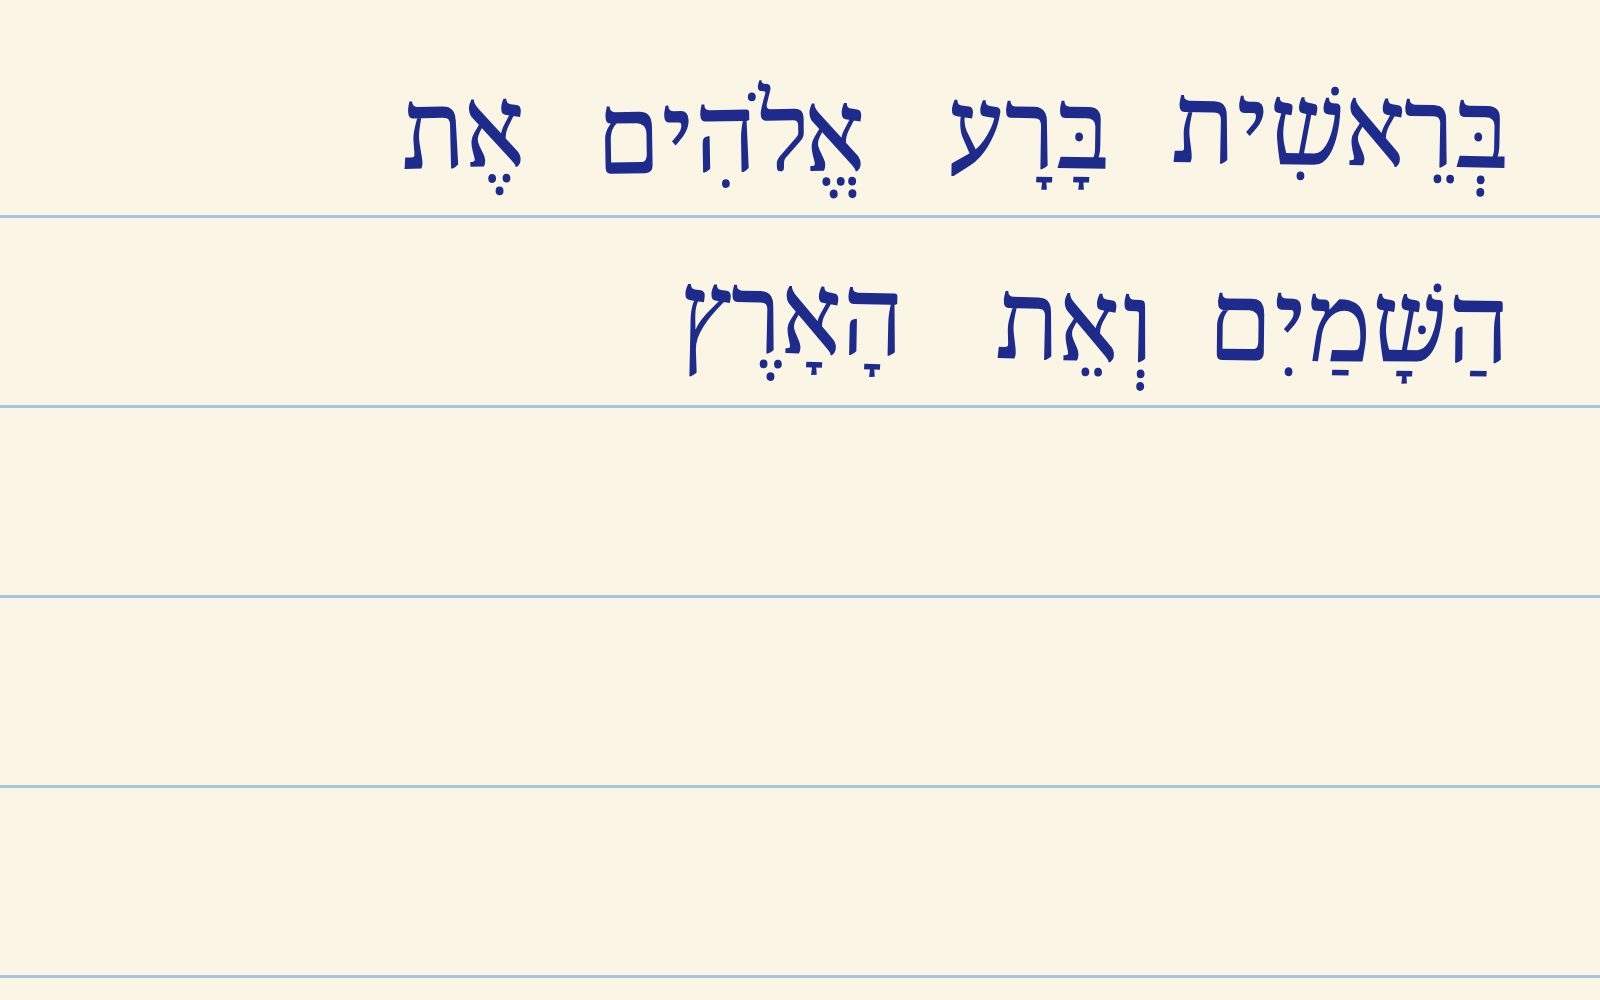
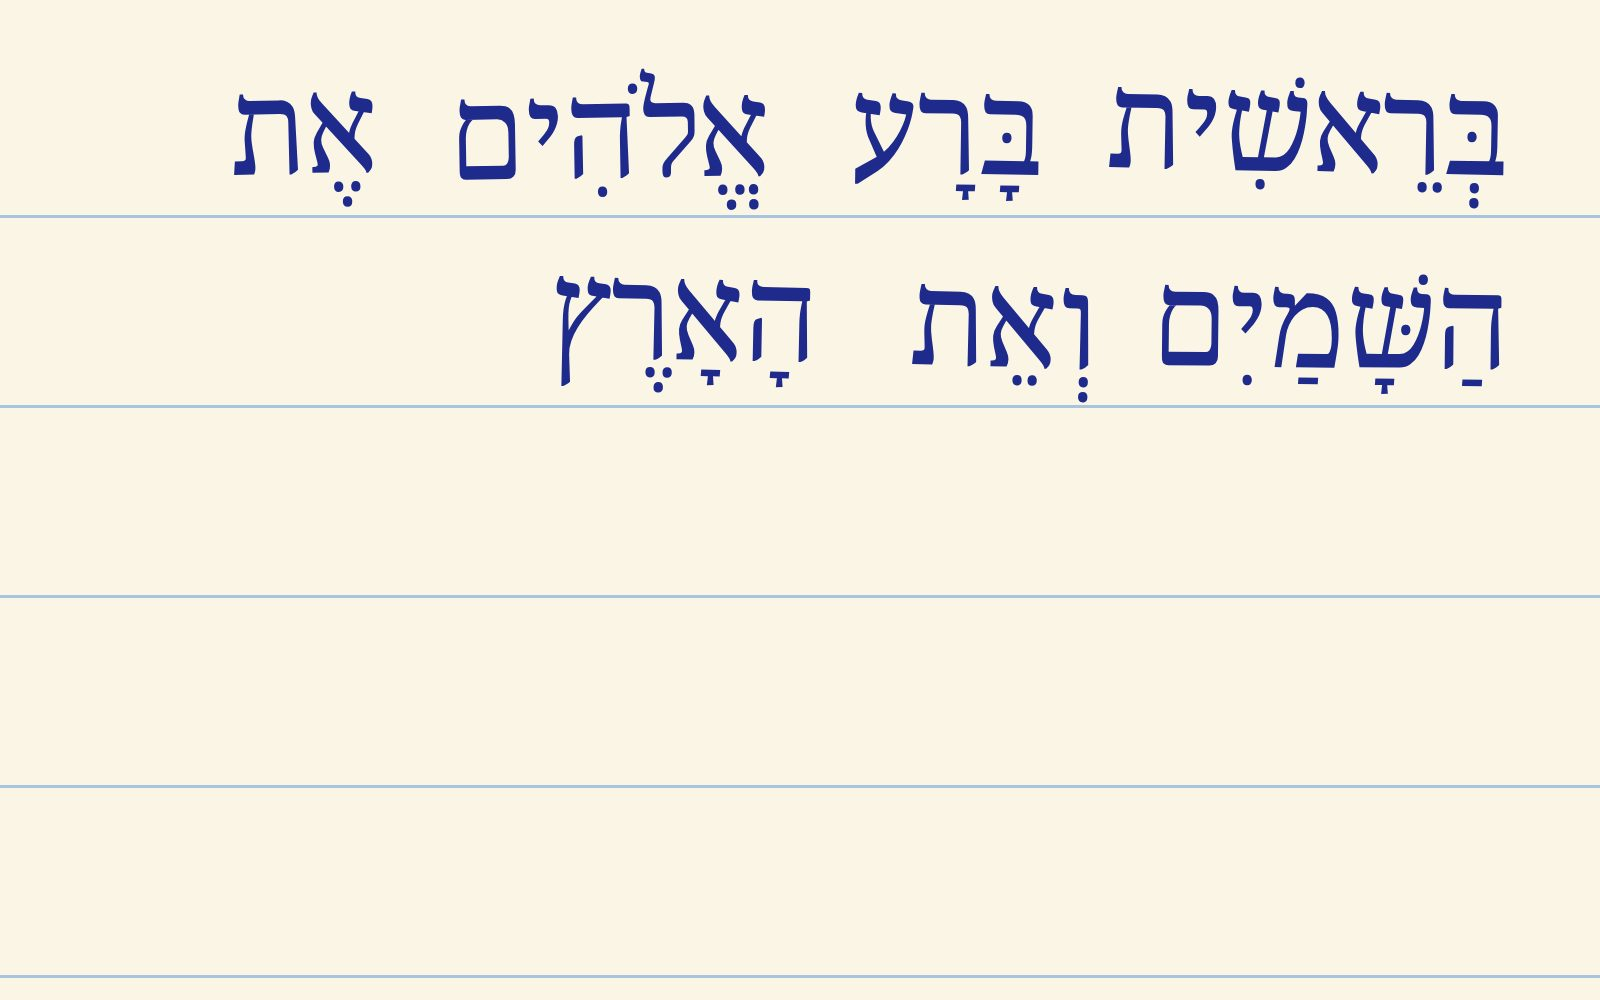
Copywork example pages: Hebrew type at 124 px so the shin's dot and dagesh stand apart

Changed region(s): [[0.125, 0.062, 0.9375, 0.217], [0.3438, 0.279, 0.9375, 0.403]]

diff --git a/scripts/render-copywork-examples.ts b/scripts/render-copywork-examples.ts
@@ -47,7 +47,7 @@ export const COPYWORK_PAGES: Record<string, PageSpec> = {
 const FONTS: Record<Language, { family: string; size: number; files: string[]; weight: number }> = {
   en: { family: 'Literata', size: 88, weight: 400, files: ['literata-latin-400-normal.woff2'] },
   grc: { family: 'Gentium Plus', size: 96, weight: 400, files: ['gentium-plus-greek-400-normal.woff2', 'gentium-plus-greek-ext-400-normal.woff2'] },
-  hbo: { family: 'Noto Serif Hebrew', size: 104, weight: 400, files: ['noto-serif-hebrew-hebrew-400-normal.woff2'] },
+  hbo: { family: 'Noto Serif Hebrew', size: 124, weight: 400, files: ['noto-serif-hebrew-hebrew-400-normal.woff2'] },
 };
 
 /** A small fixed-seed generator, so the nudges are the same on every run. */
